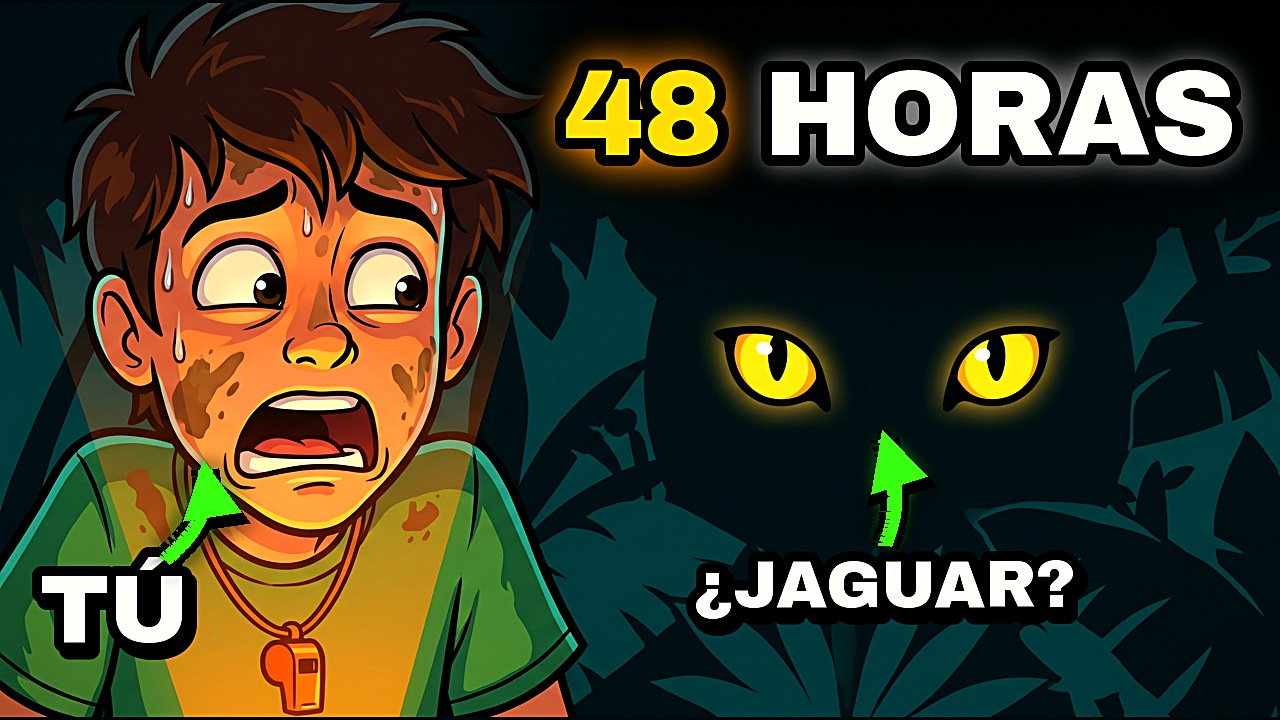
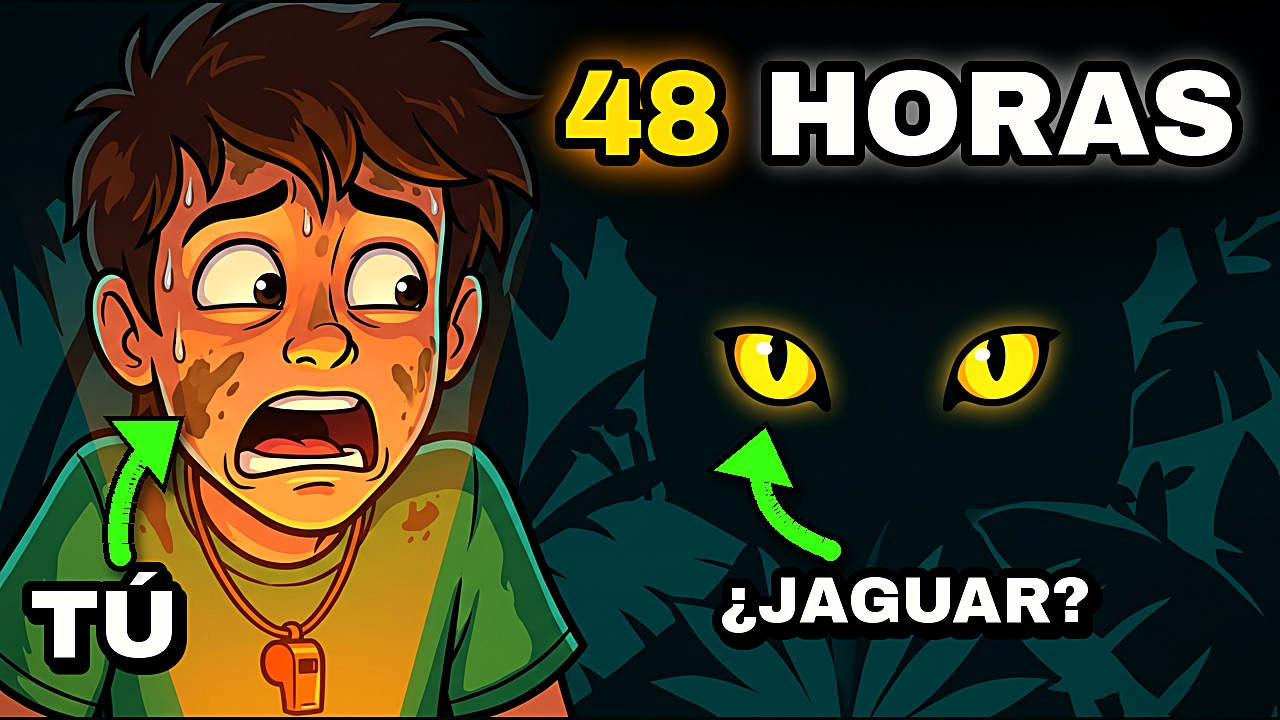
Flechas de miniatura nuevas (flechas.py) y portada v2 del Amazonas corregida
Claude-Session: https://claude.ai/code/session_015yXVQMZ3ciVXWvMJWjHd8w

Changed region(s): [[0.5312, 0.5806, 0.875, 0.9167], [0.0, 0.5806, 0.2188, 0.9472]]

diff --git a/produccion/remotion/flechas.py b/produccion/remotion/flechas.py
@@ -1,0 +1,32 @@
+# Flecha de miniatura "dibujada a mano": una sola curva (Bézier cuadrática), trazo grueso,
+# punta grande alineada con la curva, contorno negro y sombra. Uso:
+#   flecha(img, inicio, control, punta, color, w=22)
+# Reglas: arrancar SEPARADA de la etiqueta (~15 px) y terminar en el BORDE del objeto (nunca en el vacío ni encima de la cara).
+import math
+from PIL import Image, ImageDraw, ImageFilter
+def _bez(p0,p1,p2,n=80):
+    return [((1-t)**2*p0[0]+2*(1-t)*t*p1[0]+t*t*p2[0],(1-t)**2*p0[1]+2*(1-t)*t*p1[1]+t*t*p2[1]) for t in [i/n for i in range(n+1)]]
+def flecha(im,p0,p1,p2,color,w=22):
+    W,H=im.size
+    pts=_bez(p0,p1,p2)
+    tip=pts[-1]; a=math.atan2(tip[1]-pts[-8][1],tip[0]-pts[-8][0])
+    hl,hw=w*2.6,w*2.0   # largo y medio ancho de la punta
+    base=(tip[0]-hl*math.cos(a),tip[1]-hl*math.sin(a))
+    # cortar la línea donde empieza la punta
+    body=[p for p in pts if math.dist(p,tip)>hl*0.85]
+    head=[tip,(base[0]+hw*math.sin(a),base[1]-hw*math.cos(a)),(base[0]-hw*math.sin(a),base[1]+hw*math.cos(a))]
+    def draw(layer,col,extra,off=(0,0)):
+        d=ImageDraw.Draw(layer); o=lambda p:(p[0]+off[0],p[1]+off[1])
+        d.line([o(p) for p in body],fill=col,width=w+extra,joint='curve')
+        r=(w+extra)/2
+        for p in (body[0],):
+            d.ellipse([o(p)[0]-r,o(p)[1]-r,o(p)[0]+r,o(p)[1]+r],fill=col)
+        if extra:
+            # punta agrandada para el contorno
+            c=((head[0][0]+head[1][0]+head[2][0])/3,(head[0][1]+head[1][1]+head[2][1])/3)
+            k=1+extra/(hw*1.3)
+            d.polygon([o((c[0]+(x-c[0])*k,c[1]+(y-c[1])*k)) for x,y in head],fill=col)
+        else:
+            d.polygon([o(p) for p in head],fill=col)
+    sh=Image.new('RGBA',(W,H),(0,0,0,0)); draw(sh,(0,0,0,150),12,(5,7)); im.alpha_composite(sh.filter(ImageFilter.GaussianBlur(5)))
+    l=Image.new('RGBA',(W,H),(0,0,0,0)); draw(l,(0,0,0,255),12); draw(l,tuple(color)+(255,),0); im.alpha_composite(l)

diff --git a/.claude/skills/video-universo-y-si/SKILL.md b/.claude/skills/video-universo-y-si/SKILL.md
@@ -66,7 +66,7 @@ Todo lo del canal vive en `universo-y-si/`: guiones en `universo-y-si/guiones/`,
 Igual que Tu Mente Gasta (`conocimiento/produccion-ia.md`): dividir en **4 partes** para ~12 min, cada una como tarea en segundo plano (`scripts/render-parte.sh UysN K desde hasta`) y al final `scripts/unir.sh UysN uys-N` (audio aparte, −14 LUFS, copia liviana). Nunca `nohup setsid`. Mandar el MP4 al dueño (SendUserFile) y commitear solo la copia liviana.
 
 ## 7. Miniatura, título, descripción, etiquetas (siempre las 4 cosas)
-- **Miniatura** 1280×720 JPG, en estilo cartoon saturado (no el del video): Tú GRANDE con cara exagerada + lo otro importante (la crush, el oso polar, la tormenta), etiquetas **"TÚ"** y la del otro ("TU CRUSH", "−50 °C") + flechas verdes (por código), texto corto amarillo arriba ("48 HORAS", "30 DÍAS A LA DERIVA") o contraste "HORA 1 / HORA 48". La IA hace solo el dibujo; textos, etiquetas y flechas con la librería de `miniaturas_v3.py`. Nada en la esquina inferior derecha. Probar en feed de 360×202. Hacer 3 con ángulos distintos para "Probar y comparar".
+- **Miniatura** 1280×720 JPG, en estilo cartoon saturado (no el del video): Tú GRANDE con cara exagerada + lo otro importante (la crush, el oso polar, la tormenta), etiquetas **"TÚ"** y la del otro ("TU CRUSH", "−50 °C") + flechas verdes (por código con `produccion/remotion/flechas.py`: arrancan separadas de la etiqueta y terminan en el borde del objeto), texto corto amarillo arriba ("48 HORAS", "30 DÍAS A LA DERIVA") o contraste "HORA 1 / HORA 48". La IA hace solo el dibujo; textos, etiquetas y flechas con la librería de `miniaturas_v3.py`. Nada en la esquina inferior derecha. Probar en feed de 360×202. Hacer 3 con ángulos distintos para "Probar y comparar".
 - **Título**: "¿Y si [situación con tú]?" ("¿Y si estuvieras 48 horas en la selva amazónica?"), el mismo que la pregunta del gancho.
 - **Descripción**: párrafo gancho (3 líneas, con números) → CAPÍTULOS con nombres intrigantes y **tiempos reales** → la pregunta → suscripción atada a la historia → disclaimer en chiste → **solo 3 hashtags** (#yquepasariasi + 2 del tema). Entregarla en un bloque listo para copiar.
 - **Etiquetas**: la frase del título y sus variantes, el lugar/tema (ej. "selva amazónica", "polo ártico"), qué pasaría si, y si, historia animada, animación, supervivencia, historia pov, qué harías si (+ crush / historia de amor solo si el formato es crush).

diff --git a/universo-y-si/guia.md b/universo-y-si/guia.md
@@ -82,6 +82,7 @@ Formato: cada escena con título + tiempo, línea **Visual** (qué se anima) y e
 - Sonido: música según el clima de la escena + canción recurrente + efectos (mar, lluvia, trueno, alarma, golpes, flash). Master −14 LUFS.
 - Miniatura: **estilo distinto al video**: cartoon muy saturado, caras exageradas, etiquetas **"TÚ" / "TU CRUSH" con flechas verdes**, texto corto amarillo arriba (ej. "30 DÍAS A LA DERIVA"); a veces "DÍA 1 / DÍA 30".
 - **Reglas de miniatura aprendidas (video 2):** máx. 2–3 elementos (sacar todo lo que compita) · cara GRANDE en un tercio vertical con los ojos sobre la línea superior · la amenaza en el otro tercio · **la mirada del protagonista apunta a la amenaza** (lleva la vista) · texto en el espacio vacío, sin tapar pelo ni cara, con la palabra clave en amarillo · pedir a la IA la composición exacta en porcentajes ("face centered at 28% from the left…") y verificar con la grilla de tercios.
+- **Flechas:** siempre con `produccion/remotion/flechas.py` (`flecha(img, inicio, control, punta, color)`): trazo grueso, una sola curva, punta grande, contorno negro. Arrancan separadas de la etiqueta y terminan en el BORDE del objeto (nunca en el vacío ni encima de la cara).
 - Descripción: párrafo gancho + capítulos con nombres intrigantes + la pregunta + disclaimer en chiste + solo 3 hashtags.
 
 ## Reglas y límites

diff --git a/.claude/skills/video-tu-mente-gasta/SKILL.md b/.claude/skills/video-tu-mente-gasta/SKILL.md
@@ -86,7 +86,7 @@ Leer `conocimiento/titulos-miniaturas.md`. Hacer **3 miniaturas con ángulos dis
 2. **Shock + interfaz + header** (ej. "NO LO SENTISTE" + notificaciones del banco + cara agarrándose la cabeza).
 3. **Mascota cerebro + objeto raro + interfaz** (ej. "LA TARJETA TE CIEGA", "TE" en el color de resaltado).
 - La IA hace **solo el dibujo**, ya compuesto para el texto ("TOP THIRD completely EMPTY black", caras en los tercios). Texto, números, tarjetas de app y flechas, por código con la librería de `miniaturas_v3.py` (`bg`, `glowtext`, `fit`, `app_card`, `curve_arrow`, `screen`, `finish`).
-- Checklist: máx. 3 palabras · la miniatura completa el título, no lo repite · caras GRANDES · flecha que une el texto con el objeto · **nada en la esquina inferior derecha** (duración) · probar en un feed simulado de 360×202.
+- Checklist: máx. 3 palabras · la miniatura completa el título, no lo repite · caras GRANDES · flecha que une el texto con el objeto (`flechas.py`: separada de la etiqueta, punta en el borde del objeto) · **nada en la esquina inferior derecha** (duración) · probar en un feed simulado de 360×202.
 - **3 títulos**: principal con "tú" + uno con número fiel al estudio + uno de curiosidad.
 - Guardar en `canal/assets/videoN-<tema>-K-<idea>.jpg`.
 

diff --git a/conocimiento/titulos-miniaturas.md b/conocimiento/titulos-miniaturas.md
@@ -48,7 +48,7 @@
 4. **La miniatura NO repite el título: lo completa** (título "parece pobre" → miniatura "LO QUE NO VES" / "$0 vs $$$").
 5. El texto nunca tapa al personaje. Verificar a 320×180 (tamaño celular).
 6. Probar en la vista previa de vidIQ (equivale a thumbsup.tv) y subir 2 versiones a "Probar y comparar" de YouTube.
-7. Flechas: siempre deben UNIR el texto con el objeto que importa (curva, estilo dibujada a mano, con contorno negro). Nunca apuntar a un espacio vacío.
+7. Flechas: siempre deben UNIR el texto con el objeto que importa (curva, estilo dibujada a mano, con contorno negro). Nunca apuntar a un espacio vacío. Usar `produccion/remotion/flechas.py` (trazo grueso, punta grande alineada, sombra); la vieja `curve_arrow` sale finita y con quiebres. Arrancar ~15 px fuera de la etiqueta y terminar en el borde del objeto, sin pisar la cara.
 
 ## Aprendido con el video 3 (estilo líneas brillantes)
 - **Probar siempre en un feed simulado de celular (360×202)** antes de elegir: ahí se ve lo que falla.
